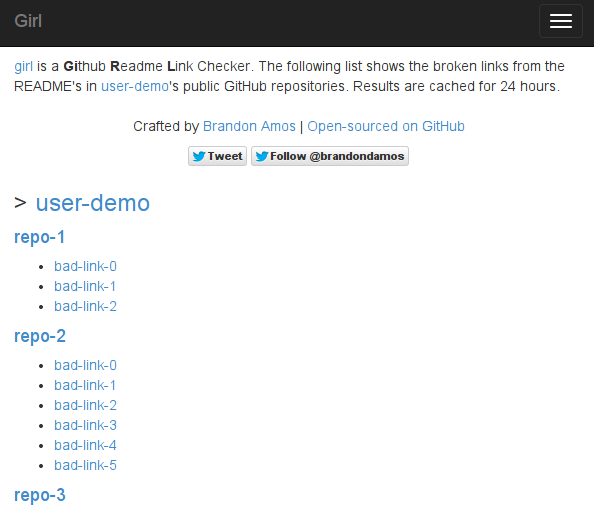
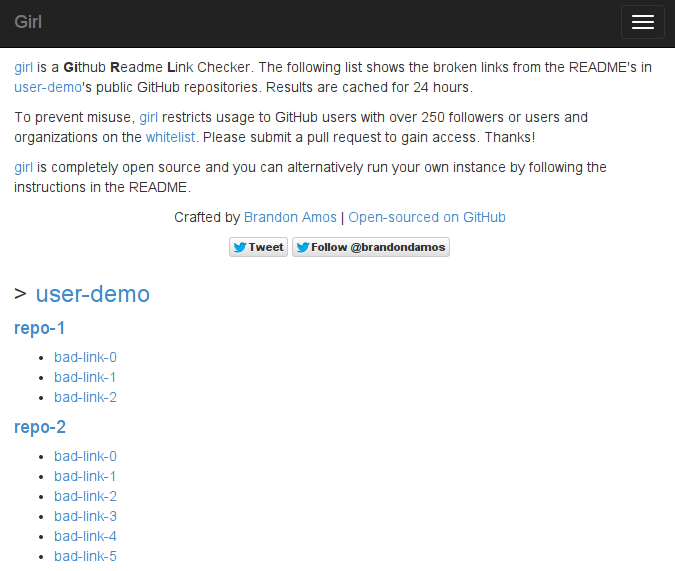
Restrict access and add whitelist.

Changed region(s): [[0.0, 0.0, 1.0, 0.3424], [0.0, 0.3735, 0.7576, 0.9961]]

diff --git a/src/main/twirl/index.scala.html b/src/main/twirl/index.scala.html
@@ -3,13 +3,30 @@
 @base { } {
   <div class="container">
     <div class="hero-unit">
-      <a href="https://github.com/bamos/girl">girl</a> is a
-      <b>Gi</b>thub <b>R</b>eadme <b>L</b>ink Checker.
-      The following list shows the broken links from the README's in
-      <a href="https://github.com/@(user)">@(user)</a>'s
-      public GitHub repositories.
-      Results are cached for 24 hours.
-      <br><br>
+      <p>
+        <a href="https://github.com/bamos/girl">girl</a> is a
+        <b>Gi</b>thub <b>R</b>eadme <b>L</b>ink Checker.
+        The following list shows the broken links from the README's in
+        <a href="https://github.com/@(user)">@(user)</a>'s
+        public GitHub repositories.
+        Results are cached for 24 hours.
+      </p>
+
+      <p>
+        To prevent misuse,
+        <a href="https://github.com/bamos/girl">girl</a> restricts usage to
+        GitHub users with
+        over 250 followers or users and organizations on the
+        <a href="https://github.com/bamos/girl/blob/master/src/main/scala/Whitelist.scala">whitelist</a>.
+        Please submit a pull request to gain access. Thanks!
+      </p>
+
+      <p>
+        <a href="https://github.com/bamos/girl">girl</a> is completely
+        open source and you can alternatively run
+        a local instance by following the
+        instructions in the README.
+      </p>
 
       <div id="footer">
         <center>

diff --git a/src/main/twirl/whitelist.scala.html b/src/main/twirl/whitelist.scala.html
@@ -1,0 +1,30 @@
+@(user: String, reqFollowers: Int)
+
+@base { } {
+  <div class="container">
+    <div class="hero-unit">
+      <p>
+        Sorry.
+        To prevent misuse,
+        <a href="https://github.com/bamos/girl">girl</a> restricts usage to
+        GitHub users with
+        over 250 followers or users and organizations on the
+        <a href="https://github.com/bamos/girl/blob/master/src/main/scala/Whitelist.scala">whitelist</a>.
+      </p>
+
+      <p>
+        <a href="https://github.com/@(user)">@(user)</a>
+        is not in the
+        <a href="https://github.com/bamos/girl/blob/master/src/main/scala/Whitelist.scala">whitelist</a>.
+        Please submit a pull request to gain access. Thanks!
+      </p>
+
+      <p>
+        <a href="https://github.com/bamos/girl">girl</a> is completely
+        open source and you can alternatively run
+        a local instance by following the
+        instructions in the README.
+      </p>
+    </div>
+  </div>
+}
